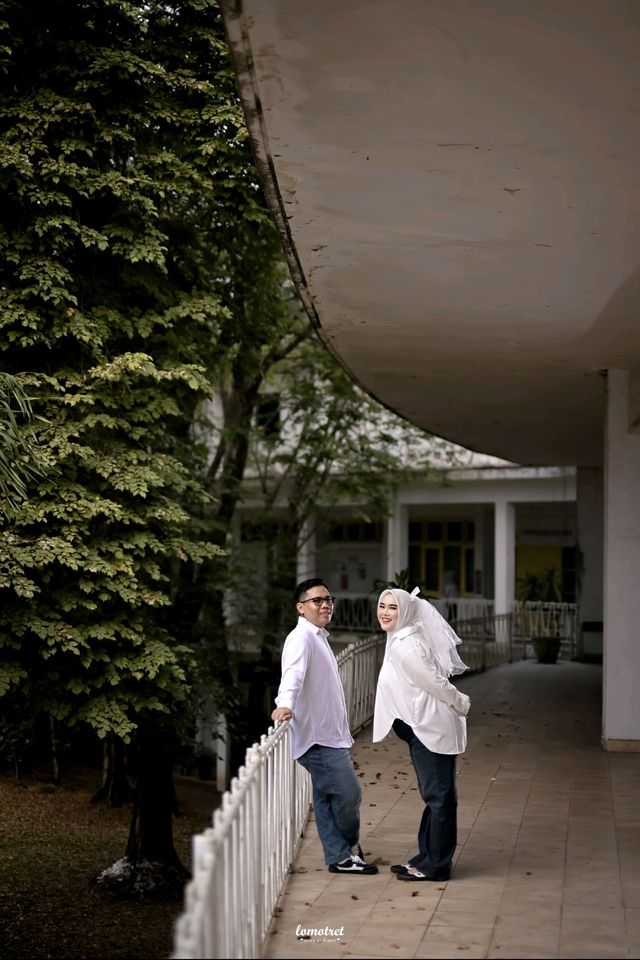
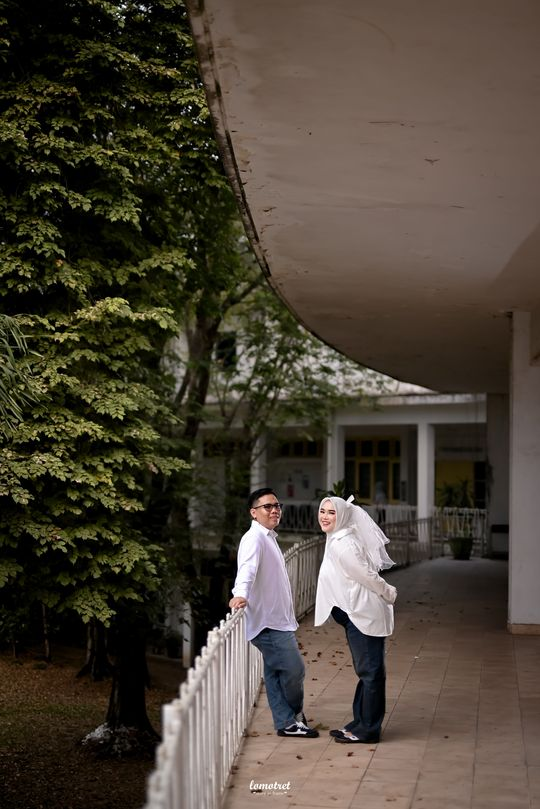
feat(undangan-wahyu-egy): 5 foto baru di galeri, hapus turut mengundang

diff --git a/undangan-wahyu-egy/toile/index.html b/undangan-wahyu-egy/toile/index.html
@@ -14,7 +14,7 @@
 <link rel="preconnect" href="https://fonts.googleapis.com">
 <link rel="preconnect" href="https://fonts.gstatic.com" crossorigin>
 <link href="https://fonts.googleapis.com/css2?family=Cormorant+Infant:ital,wght@0,400;0,500;0,600;1,400&family=Lora:ital@0;1&family=Pinyon+Script&family=Poppins:wght@300;400;500&display=swap" rel="stylesheet">
-<link rel="stylesheet" href="style.css?v=202611121000">
+<link rel="stylesheet" href="style.css?v=202611121100">
 </head>
 <body class="locked">
 
@@ -150,6 +150,11 @@
       <button type="button" class="g wide reveal" data-full="../img/adat-berdua.jpg"><img src="../img/adat-berdua-sm.jpg" alt="Egy dan Wahyu berbusana adat" loading="lazy"></button>
       <button type="button" class="g reveal" data-full="../img/prewed-taman.jpg"><img src="../img/prewed-taman-sm.jpg" alt="Egy dan Wahyu di taman" loading="lazy"></button>
       <button type="button" class="g reveal" data-full="../img/prewed-dansa.jpg"><img src="../img/prewed-dansa-sm.jpg" alt="Egy dan Wahyu berdansa" loading="lazy"></button>
+      <button type="button" class="g wide reveal" data-full="../img/adat-balkon.jpg"><img src="../img/adat-balkon-sm.jpg" alt="Egy dan Wahyu berbusana adat di balkon" loading="lazy"></button>
+      <button type="button" class="g reveal" data-full="../img/adat-tangga.jpg"><img src="../img/adat-tangga-sm.jpg" alt="Egy dan Wahyu berbusana adat di tangga" loading="lazy"></button>
+      <button type="button" class="g reveal" data-full="../img/adat-gong.jpg"><img src="../img/adat-gong-sm.jpg" alt="Egy dan Wahyu berbusana adat di bawah lampu kristal" loading="lazy"></button>
+      <button type="button" class="g wide reveal" data-full="../img/prewed-gandeng.jpg"><img src="../img/prewed-gandeng-sm.jpg" alt="Egy dan Wahyu bergandengan di taman" loading="lazy"></button>
+      <button type="button" class="g wide reveal" data-full="../img/prewed-teras.jpg"><img src="../img/prewed-teras-sm.jpg" alt="Egy dan Wahyu di teras" loading="lazy"></button>
     </div>
   </section>
 
@@ -268,7 +273,6 @@
     </div>
     <p class="intro light reveal">Suatu kebahagiaan &amp; kehormatan bagi kami, apabila Bapak/Ibu/Saudara/i berkenan hadir dan memberikan doa restu kepada kedua mempelai.</p>
     <p class="salam light reveal">Wassalamu'alaikum Wr. Wb.</p>
-    <p class="turut light reveal"><span>Turut mengundang</span>Keluarga Besar Syambri (Alm) &amp; Rusmawati (Almh)</p>
     <p class="lora small light reveal">Kami Yang Berbahagia,</p>
     <p class="names big light reveal">Egy &amp; Wahyu</p>
     <p class="fams light reveal">Keluarga Bapak Mairulsyah &amp; Ibu Etika Suryanti, S.Kom<br>Keluarga Bapak Panyadi, SH &amp; Ibu Nurtiyani, S.Pd.I</p>
@@ -301,6 +305,6 @@
   <img alt="">
 </div>
 
-<script src="script.js?v=202611121000"></script>
+<script src="script.js?v=202611121100"></script>
 </body>
 </html>

diff --git a/undangan-wahyu-egy/index.html b/undangan-wahyu-egy/index.html
@@ -14,7 +14,7 @@
 <link rel="preconnect" href="https://fonts.googleapis.com">
 <link rel="preconnect" href="https://fonts.gstatic.com" crossorigin>
 <link href="https://fonts.googleapis.com/css2?family=Pirata+One&family=Oswald:wght@400;500;600&family=Barlow:ital,wght@0,400;0,500;0,600;1,400&display=swap" rel="stylesheet">
-<link rel="stylesheet" href="style.css?v=202611121000">
+<link rel="stylesheet" href="style.css?v=202611121100">
 </head>
 <body class="locked">
 
@@ -206,6 +206,11 @@
       <button type="button" class="g reveal" data-full="img/prewed-jalan.jpg"><img src="img/prewed-jalan-sm.jpg" alt="Egy dan Wahyu bergandengan di selasar" loading="lazy"></button>
       <button type="button" class="g reveal" data-full="img/prewed-dansa.jpg"><img src="img/prewed-dansa-sm.jpg" alt="Egy dan Wahyu berdansa" loading="lazy"></button>
       <button type="button" class="g reveal" data-full="img/prewed-pagar.jpg"><img src="img/prewed-pagar-sm.jpg" alt="Egy dan Wahyu bersandar di pagar" loading="lazy"></button>
+      <button type="button" class="g wide reveal" data-full="img/adat-balkon.jpg"><img src="img/adat-balkon-sm.jpg" alt="Egy dan Wahyu berbusana adat di balkon" loading="lazy"></button>
+      <button type="button" class="g reveal" data-full="img/adat-tangga.jpg"><img src="img/adat-tangga-sm.jpg" alt="Egy dan Wahyu berbusana adat di tangga" loading="lazy"></button>
+      <button type="button" class="g reveal" data-full="img/adat-gong.jpg"><img src="img/adat-gong-sm.jpg" alt="Egy dan Wahyu berbusana adat di bawah lampu kristal" loading="lazy"></button>
+      <button type="button" class="g wide reveal" data-full="img/prewed-gandeng.jpg"><img src="img/prewed-gandeng-sm.jpg" alt="Egy dan Wahyu bergandengan di taman" loading="lazy"></button>
+      <button type="button" class="g reveal" data-full="img/prewed-teras.jpg"><img src="img/prewed-teras-sm.jpg" alt="Egy dan Wahyu di teras" loading="lazy"></button>
     </div>
   </section>
 
@@ -273,10 +278,6 @@
     <p class="intro reveal">Merupakan suatu kehormatan dan kebahagiaan bagi kami apabila Bapak/Ibu/Saudara/i berkenan hadir dan memberikan doa restu kepada kedua mempelai.</p>
     <p class="salam reveal">Wassalamu'alaikum Warahmatullahi Wabarakatuh</p>
 
-    <div class="turut reveal">
-      <p class="eyebrow">Turut Mengundang</p>
-      <p>Keluarga Besar Syambri (Alm) &amp; Rusmawati (Almh)</p>
-    </div>
 
     <div class="closing reveal">
       <p>Kami yang berbahagia,</p>
@@ -302,6 +303,6 @@
   <img alt="">
 </div>
 
-<script src="script.js?v=202611121000"></script>
+<script src="script.js?v=202611121100"></script>
 </body>
 </html>

diff --git a/undangan-wahyu-egy/pink/index.html b/undangan-wahyu-egy/pink/index.html
@@ -13,7 +13,7 @@
 <link rel="preconnect" href="https://fonts.googleapis.com">
 <link rel="preconnect" href="https://fonts.gstatic.com" crossorigin>
 <link href="https://fonts.googleapis.com/css2?family=Cinzel:wght@400;500&family=Cormorant+Garamond:ital,wght@0,400;0,500;0,600;1,400;1,500&family=Great+Vibes&family=Jost:wght@300;400;500&display=swap" rel="stylesheet">
-<link rel="stylesheet" href="style.css?v=202611121000">
+<link rel="stylesheet" href="style.css?v=202611121100">
 </head>
 <body class="locked">
 
@@ -254,6 +254,10 @@
       <button type="button" class="g wide reveal" data-full="../img/adat-berdua.jpg"><img src="../img/adat-berdua-sm.jpg" alt="Egy dan Wahyu berbusana adat" loading="lazy"></button>
       <button type="button" class="g reveal" data-full="../img/prewed-teras.jpg"><img src="../img/prewed-teras-sm.jpg" alt="Egy dan Wahyu di teras" loading="lazy"></button>
       <button type="button" class="g reveal" data-full="../img/prewed-dansa.jpg"><img src="../img/prewed-dansa-sm.jpg" alt="Egy dan Wahyu berdansa" loading="lazy"></button>
+      <button type="button" class="g wide reveal" data-full="../img/adat-balkon.jpg"><img src="../img/adat-balkon-sm.jpg" alt="Egy dan Wahyu berbusana adat di balkon" loading="lazy"></button>
+      <button type="button" class="g reveal" data-full="../img/adat-tangga.jpg"><img src="../img/adat-tangga-sm.jpg" alt="Egy dan Wahyu berbusana adat di tangga" loading="lazy"></button>
+      <button type="button" class="g reveal" data-full="../img/adat-gong.jpg"><img src="../img/adat-gong-sm.jpg" alt="Egy dan Wahyu berbusana adat di bawah lampu kristal" loading="lazy"></button>
+      <button type="button" class="g wide reveal" data-full="../img/prewed-gandeng.jpg"><img src="../img/prewed-gandeng-sm.jpg" alt="Egy dan Wahyu bergandengan di taman" loading="lazy"></button>
     </div>
   </section>
 
@@ -318,10 +322,6 @@
     <p class="intro reveal">Merupakan suatu kehormatan dan kebahagiaan bagi kami apabila Bapak/Ibu/Saudara/i berkenan hadir dan memberikan doa restu kepada kedua mempelai.</p>
     <p class="salam reveal">Wassalamu'alaikum Warahmatullahi Wabarakatuh</p>
 
-    <div class="turut reveal">
-      <p class="eyebrow">Turut Mengundang</p>
-      <p>Keluarga Besar Syambri (Alm) &amp; Rusmawati (Almh)</p>
-    </div>
 
     <div class="closing reveal">
       <p>Kami yang berbahagia,</p>
@@ -348,6 +348,6 @@
   <img alt="">
 </div>
 
-<script src="script.js?v=202611121000"></script>
+<script src="script.js?v=202611121100"></script>
 </body>
 </html>

diff --git a/undangan-wahyu-egy/style.css b/undangan-wahyu-egy/style.css
@@ -191,7 +191,7 @@ main{position:relative;background:var(--grain),var(--black);box-shadow:0 0 80px 
 
 /* galeri */
 .galeri{background:var(--grain),var(--coal);padding-left:14px;padding-right:14px}
-.grid{display:grid;grid-template-columns:1fr 1fr;gap:8px;margin-top:22px}
+.grid{display:grid;grid-auto-flow:dense;grid-template-columns:1fr 1fr;gap:8px;margin-top:22px}
 .g{border:0;padding:0;background:none;cursor:zoom-in;overflow:hidden;aspect-ratio:2/3;position:relative}
 .g.wide{grid-column:span 2;aspect-ratio:4/5}
 .g img{width:100%;height:100%;object-fit:cover;filter:grayscale(.25) contrast(1.08);transition:transform .6s,filter .6s}

diff --git a/undangan-wahyu-egy/toile/style.css b/undangan-wahyu-egy/toile/style.css
@@ -119,7 +119,7 @@ main{position:relative;background:var(--cream);overflow:hidden;box-shadow:0 0 50
 .event .btn{margin-top:14px}
 
 /* galeri */
-.grid{display:grid;grid-template-columns:1fr 1fr;gap:8px;margin-top:20px}
+.grid{display:grid;grid-auto-flow:dense;grid-template-columns:1fr 1fr;gap:8px;margin-top:20px}
 .g{border:0;padding:0;background:none;cursor:zoom-in;overflow:hidden;border-radius:10px;aspect-ratio:2/3;box-shadow:0 6px 16px rgba(74,42,46,.15)}
 .g.wide{grid-column:span 2;aspect-ratio:4/5}
 .g img{width:100%;height:100%;object-fit:cover;transition:transform .6s}

diff --git a/undangan-wahyu-egy/pink/style.css b/undangan-wahyu-egy/pink/style.css
@@ -152,7 +152,7 @@ main{position:relative;background:var(--blush) var(--lines);box-shadow:0 0 60px 
 
 /* galeri */
 .galeri{background:#fff8f7;padding-left:14px;padding-right:14px}
-.grid{display:grid;grid-template-columns:1fr 1fr;gap:8px;margin-top:22px}
+.grid{display:grid;grid-auto-flow:dense;grid-template-columns:1fr 1fr;gap:8px;margin-top:22px}
 .g{border:0;padding:0;background:none;cursor:zoom-in;overflow:hidden;border-radius:8px;aspect-ratio:2/3}
 .g.wide{grid-column:span 2;aspect-ratio:4/5}
 .g img{width:100%;height:100%;object-fit:cover;transition:transform .6s}
